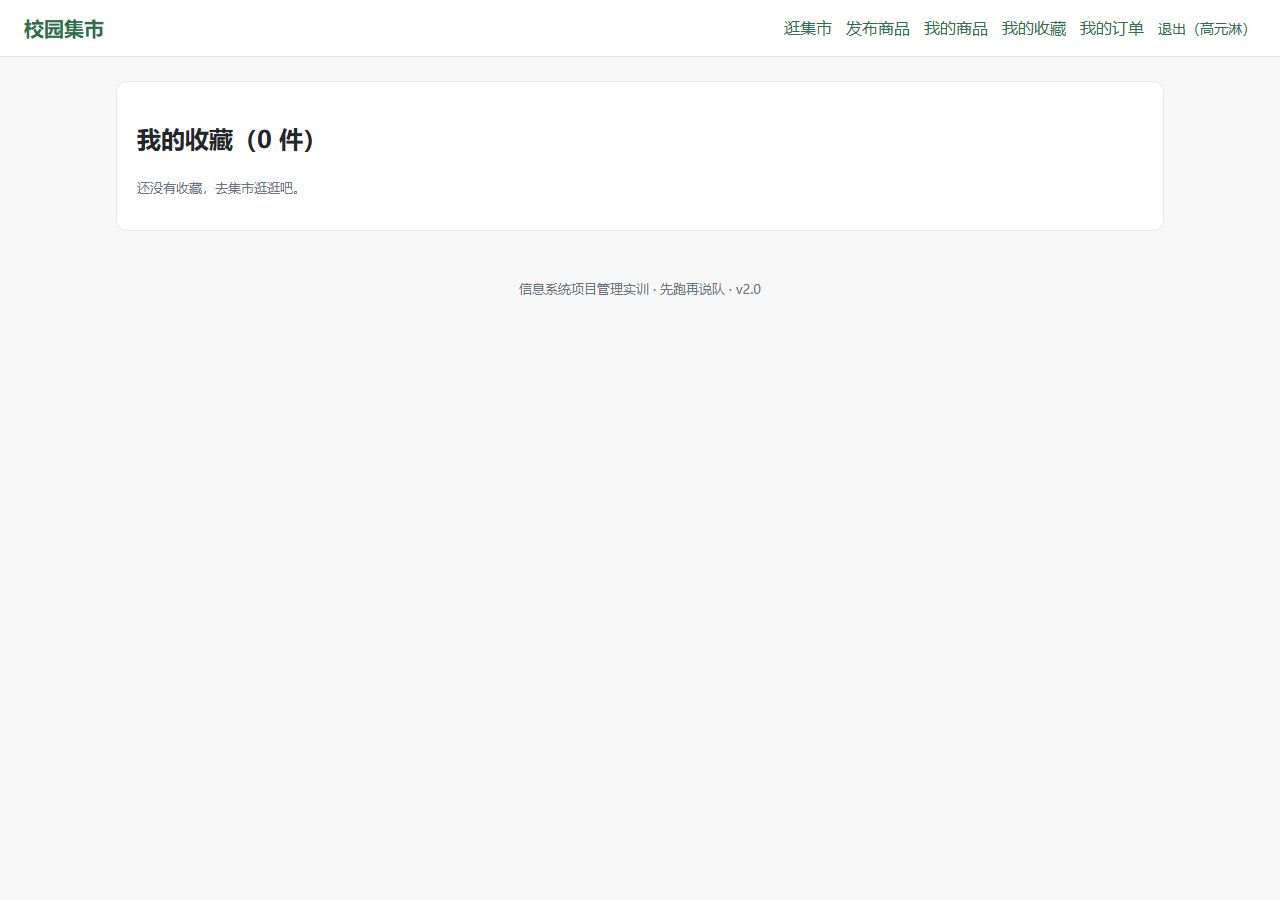
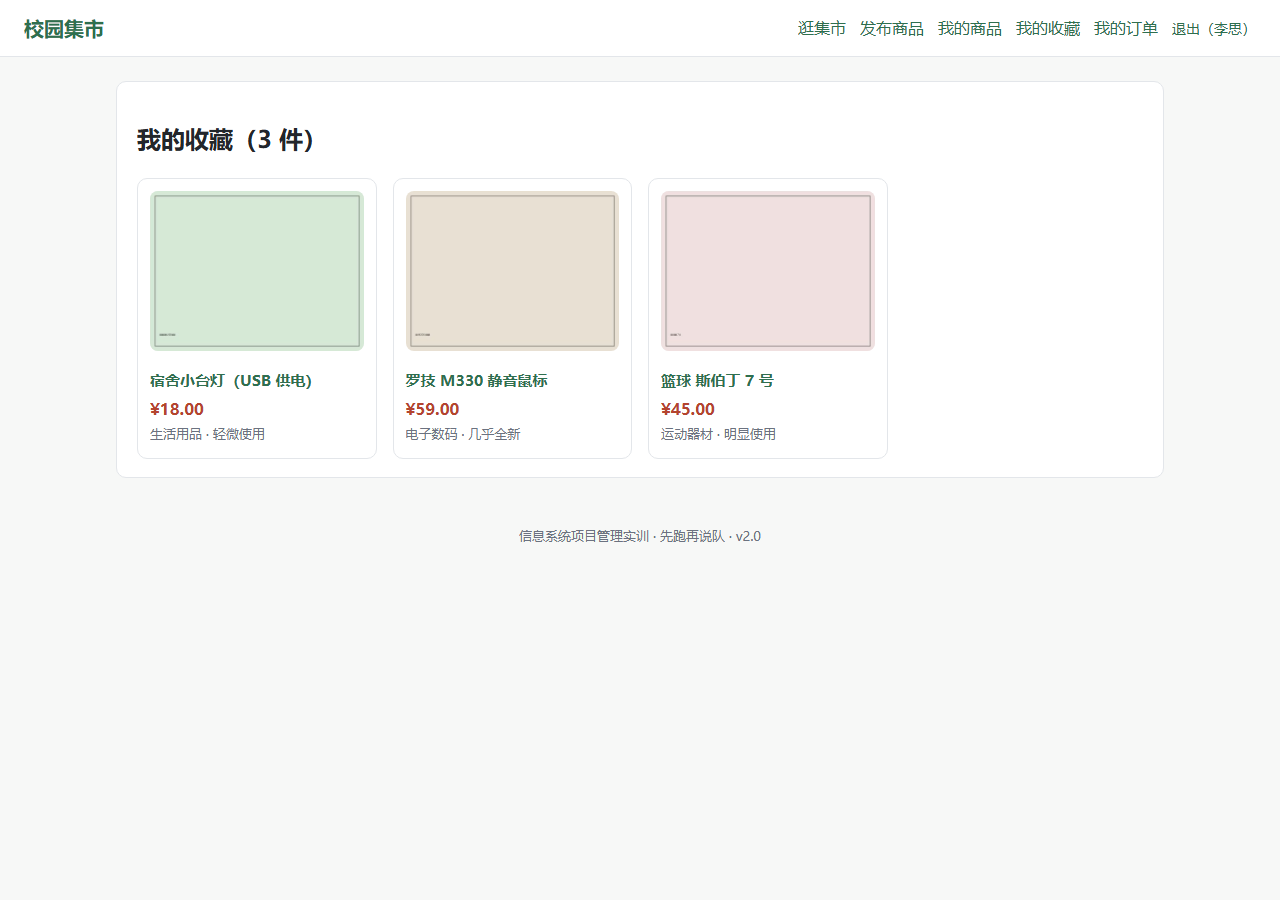
fix: 后台列表显示卖家昵称、订单状态改为中文

diff --git a/app/templates/admin/index.html b/app/templates/admin/index.html
@@ -18,7 +18,7 @@
         <td><a href="{{ url_for('items.detail', item_id=item['id']) }}">{{ item['title'] }}</a></td>
         <td>{{ item['category'] }}</td>
         <td>{{ item['price'] | yuan }}</td>
-        <td>{{ item['seller_id'] }}</td>
+        <td>{{ item['seller_name'] }}</td>
         <td>
           <form method="post" action="{{ url_for('admin.approve', item_id=item['id']) }}" class="inline">
             <button class="btn" type="submit">通过</button>
@@ -45,7 +45,7 @@
       <tr>
         <td>#{{ order['id'] }}</td>
         <td>{{ order['item_title'] }}</td>
-        <td>{{ status_labels[order['status']] if order['status'] in status_labels else order['status'] }}</td>
+        <td>{{ order_status_labels[order['status']] }}</td>
         <td>{{ order['updated_at'] }}</td>
       </tr>
     {% else %}

diff --git a/app/admin.py b/app/admin.py
@@ -4,6 +4,7 @@ from flask import Blueprint, flash, g, redirect, render_template, request, url_f
 from .auth import admin_required
 from .db import get_db, now
 from .items import ITEM_STATUS, get_item
+from .orders import STATUS_LABELS as ORDER_STATUS_LABELS
 
 bp = Blueprint("admin", __name__, url_prefix="/admin")
 
@@ -23,7 +24,8 @@ def index():
         ).fetchone()[0],
     }
     pending_items = conn.execute(
-        "SELECT * FROM item WHERE status = 'pending' ORDER BY created_at, id"
+        "SELECT i.*, u.nickname AS seller_name FROM item i JOIN user u ON u.id = i.seller_id"
+        " WHERE i.status = 'pending' ORDER BY i.created_at, i.id"
     ).fetchall()
     orders = conn.execute(
         "SELECT o.*, i.title AS item_title FROM trade_order o JOIN item i ON i.id = o.item_id"
@@ -35,6 +37,7 @@ def index():
         pending_items=pending_items,
         orders=orders,
         status_labels=ITEM_STATUS,
+        order_status_labels=ORDER_STATUS_LABELS,
     )
 
 
